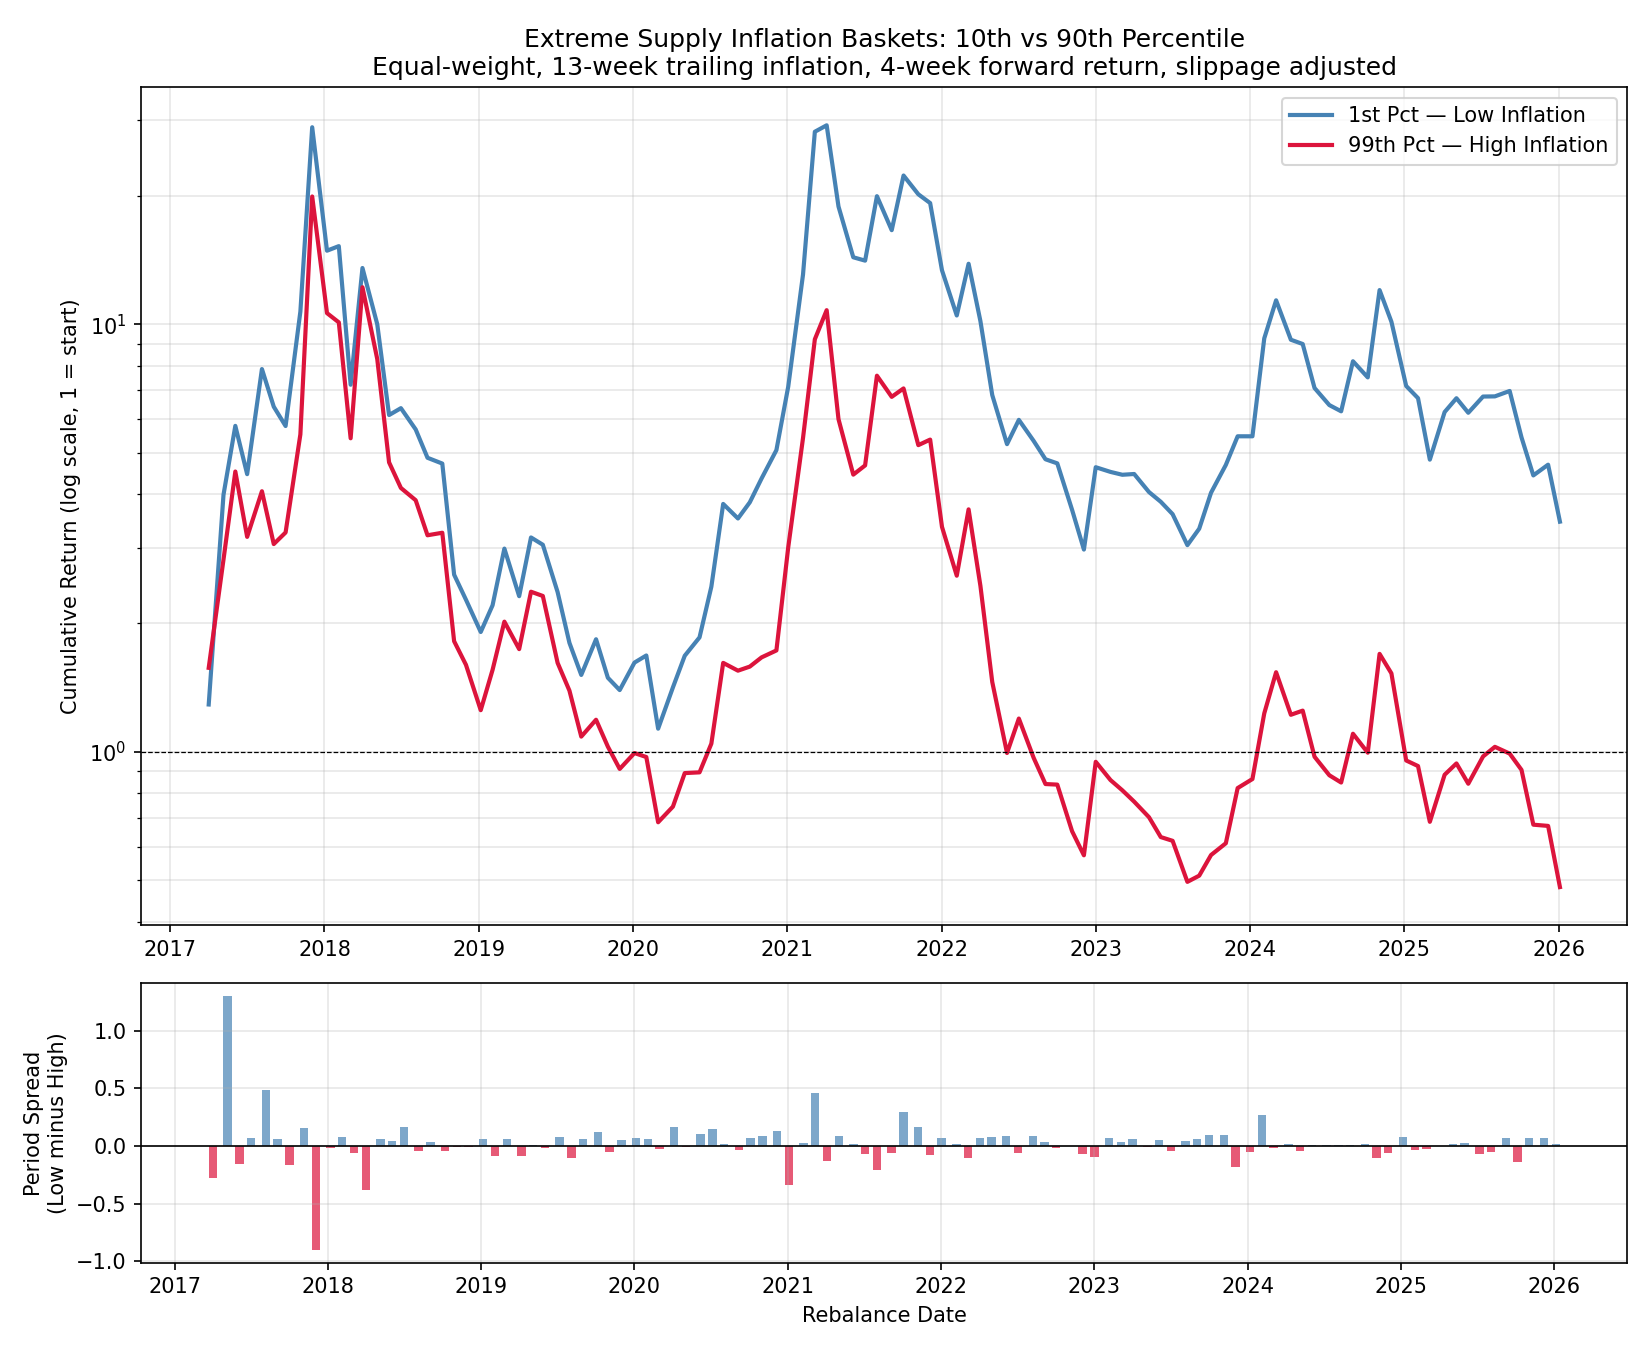
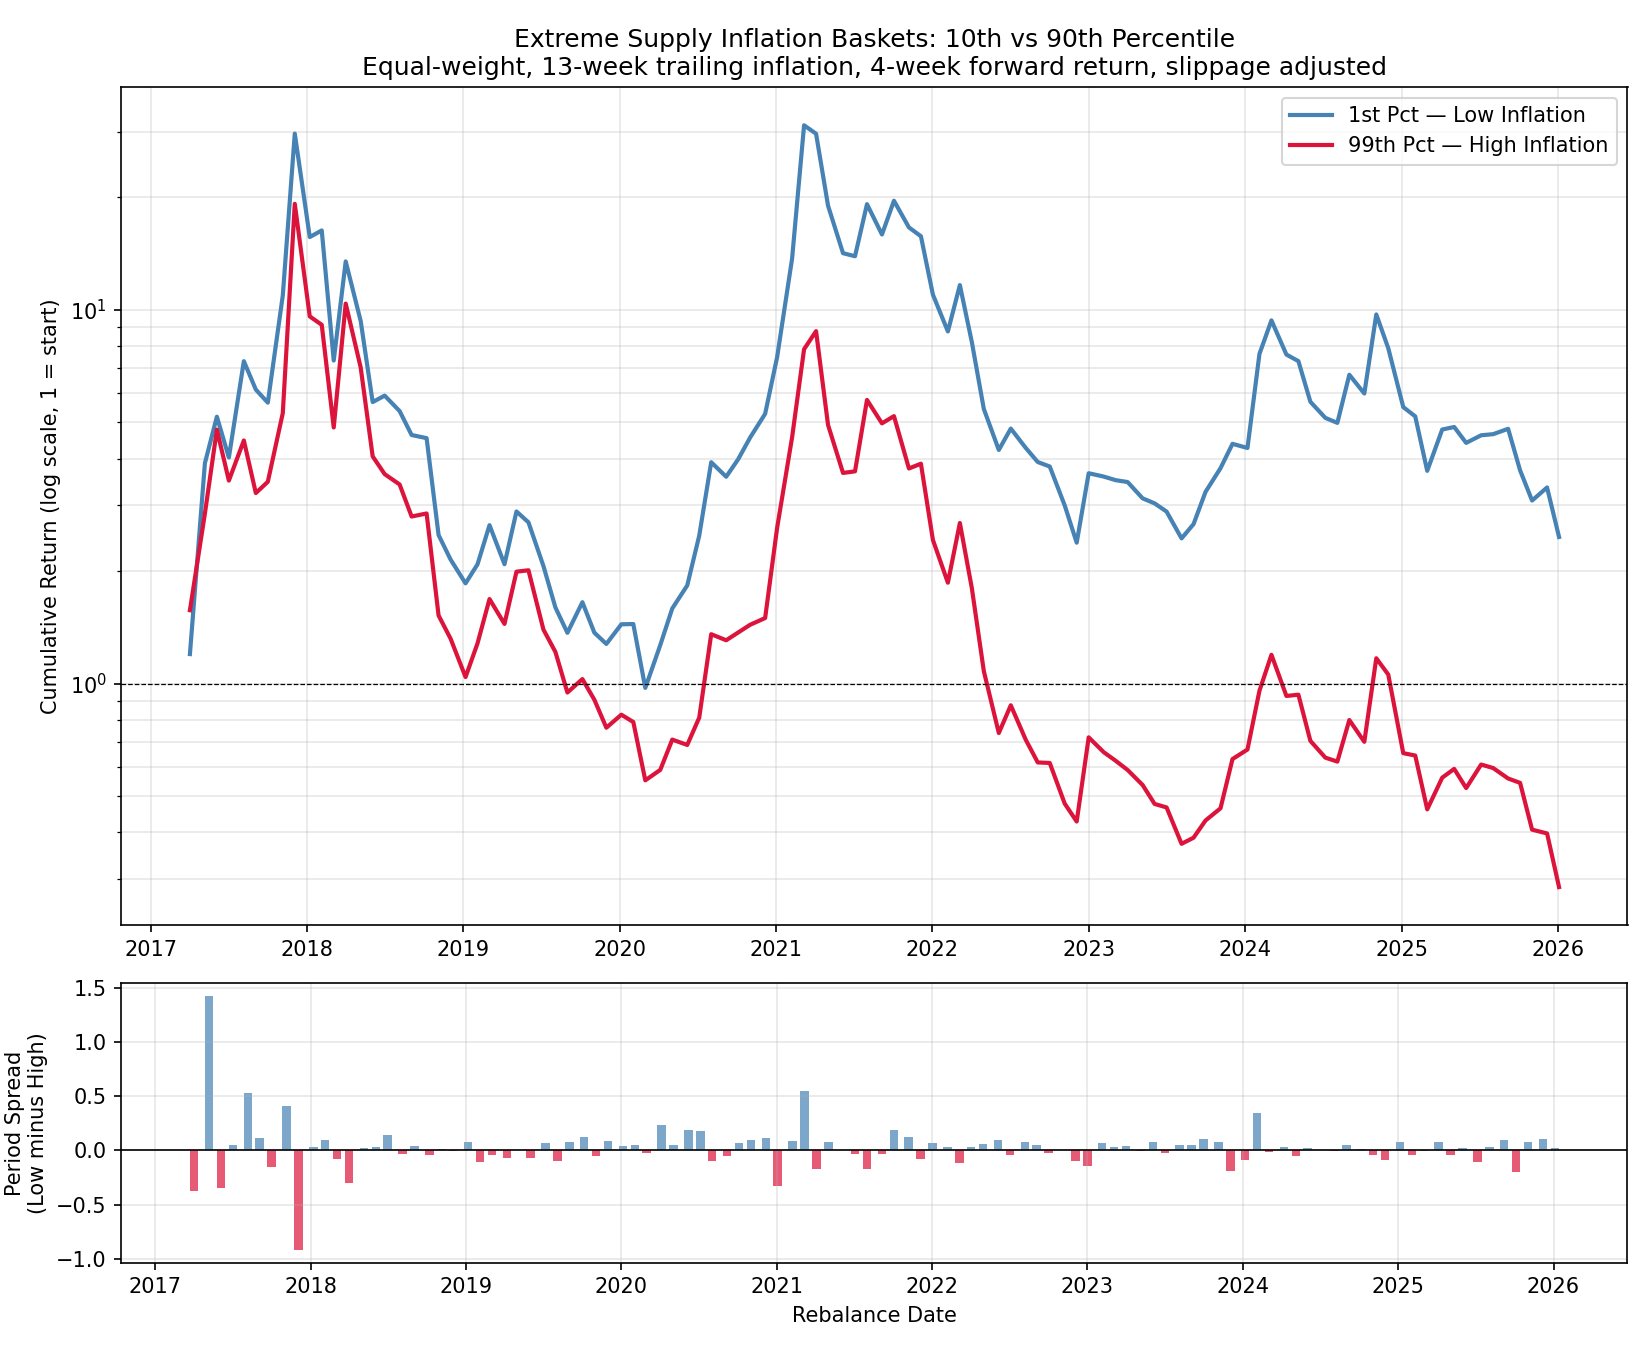
Filter extreme percentile baskets: exclude CEX tokens, memecoins, top 20
Adds STABLECOINS, CEX_TOKENS, MEMECOINS blocklists and TOP_N_EXCLUDE=20
rank filter applied at each rebalancing date before computing percentile
cutoffs. Results: Low=+10.87% ann., High=-13.33% ann., spread widens
to +24.2 ppt, win rate holds at 59.4% / 106 periods.

diff --git a/extreme_percentile.py b/extreme_percentile.py
@@ -1,11 +1,17 @@
 """
 extreme_percentile.py
 
-Head-to-head test: 1st percentile (lowest supply inflation) vs 99th percentile
+Head-to-head test: 10th percentile (lowest supply inflation) vs 90th percentile
 (highest supply inflation) baskets, equal-weighted, no benchmark, no beta-hedging.
 
 Goal: determine whether hyper-inflationary tokens structurally underperform
 deflationary/stable tokens in absolute terms.
+
+Universe filters applied at each rebalancing date:
+  - Stablecoins excluded (USD/EUR pegged assets)
+  - CEX platform tokens excluded (exchange fee/revenue tokens)
+  - Memecoins excluded (no fundamental utility)
+  - Top 20 tokens by rank excluded (mega-caps distort tail dynamics)
 """
 
 import numpy as np
@@ -27,6 +33,51 @@ MIN_TURNOVER     = 0.001
 MAX_SLIPPAGE     = 0.02
 LOW_PCT          = 0.10  # 10th percentile cutoff
 HIGH_PCT         = 0.90  # 90th percentile cutoff
+TOP_N_EXCLUDE    = 20    # exclude tokens ranked <= this at each snapshot date
+
+# Stablecoins (price-pegged assets — no meaningful supply inflation signal)
+STABLECOINS = {
+    "USDT", "USDC", "BUSD", "DAI", "TUSD", "USDP", "GUSD", "FRAX",
+    "LUSD", "MIM", "USDN", "USTC", "UST", "HUSD", "SUSD", "PAX",
+    "USDS", "USDJ", "NUSD", "USDK", "USDX", "CUSD", "CEUR", "USDH",
+    "USDD", "FDUSD", "PYUSD", "EURC", "EURS", "USDQ", "USDB", "USDTB",
+    "SFRXETH", "OSETH", "CMETH",
+}
+
+# CEX platform tokens (exchange fee/revenue tokens — supply dynamics driven
+# by buyback programs, not project fundamentals)
+CEX_TOKENS = {
+    "BNB",   # Binance
+    "HT",    # Huobi / HTX
+    "KCS",   # KuCoin
+    "OKB",   # OKX
+    "MX",    # MEXC
+    "CRO",   # Crypto.com
+    "BIX",   # Bibox
+    "GT",    # Gate.io
+    "LEO",   # Bitfinex
+    "FTT",   # FTX (defunct)
+    "WBT",   # WhiteBIT
+    "BGB",   # Bitget
+    "BTSE",  # BTSE
+    "NEXO",  # Nexo
+    "CEL",   # Celsius (defunct)
+    "LATOKEN", "BTMX",
+}
+
+# Memecoins (no fundamental utility — pure speculative/cultural tokens)
+MEMECOINS = {
+    "DOGE", "SHIB", "FLOKI", "PEPE", "BONK", "WIF", "FARTCOIN",
+    "SAFEMOON", "ELON", "DOGELON", "MEME", "TURBO", "POPCAT", "MOG",
+    "BABYDOGE", "KISHU", "AKITA", "HOGE", "SAITAMA", "VOLT", "ELONGATE",
+    "SAMO", "BOME", "NEIRO", "SPX", "BRETT", "MYRO", "SLERF", "TOSHI",
+    "GIGA", "SUNDOG", "MOODENG", "PNUT", "ACT", "GOAT", "CHILLGUY",
+    "PONKE", "LADYS", "COQ", "AIDOGE", "WOJAK", "HUHU", "MILADY",
+    "BOBO", "QUACK", "BONE", "LEASH", "FLOOF", "PITBULL", "HOKK",
+    "CATGIRL", "SFM", "LUNC",
+}
+
+EXCLUDED = STABLECOINS | CEX_TOKENS | MEMECOINS
 
 
 # ---------------------------------------------------------------------------
@@ -149,9 +200,15 @@ def run_extreme_baskets(df: pd.DataFrame, fwd_long: pd.DataFrame):
         df.groupby("ym")["snapshot_date"].min()
     )
 
-    # Supply inflation at each snapshot
-    inf_df = df[["snapshot_date", "symbol", "supply_pct_13p"]].copy()
+    # Supply inflation at each snapshot — with universe filters
+    inf_df = df[["snapshot_date", "symbol", "supply_pct_13p", "rank"]].copy()
     inf_df = inf_df[inf_df["supply_pct_13p"].notna()]
+
+    # Remove stablecoins, CEX tokens, memecoins
+    inf_df = inf_df[~inf_df["symbol"].isin(EXCLUDED)]
+
+    # Remove top-N mega-caps (rank <= TOP_N_EXCLUDE at that snapshot date)
+    inf_df = inf_df[inf_df["rank"] > TOP_N_EXCLUDE]
 
     # Merge forward returns with inflation
     merged = fwd_long.merge(inf_df, on=["snapshot_date", "symbol"], how="inner")
